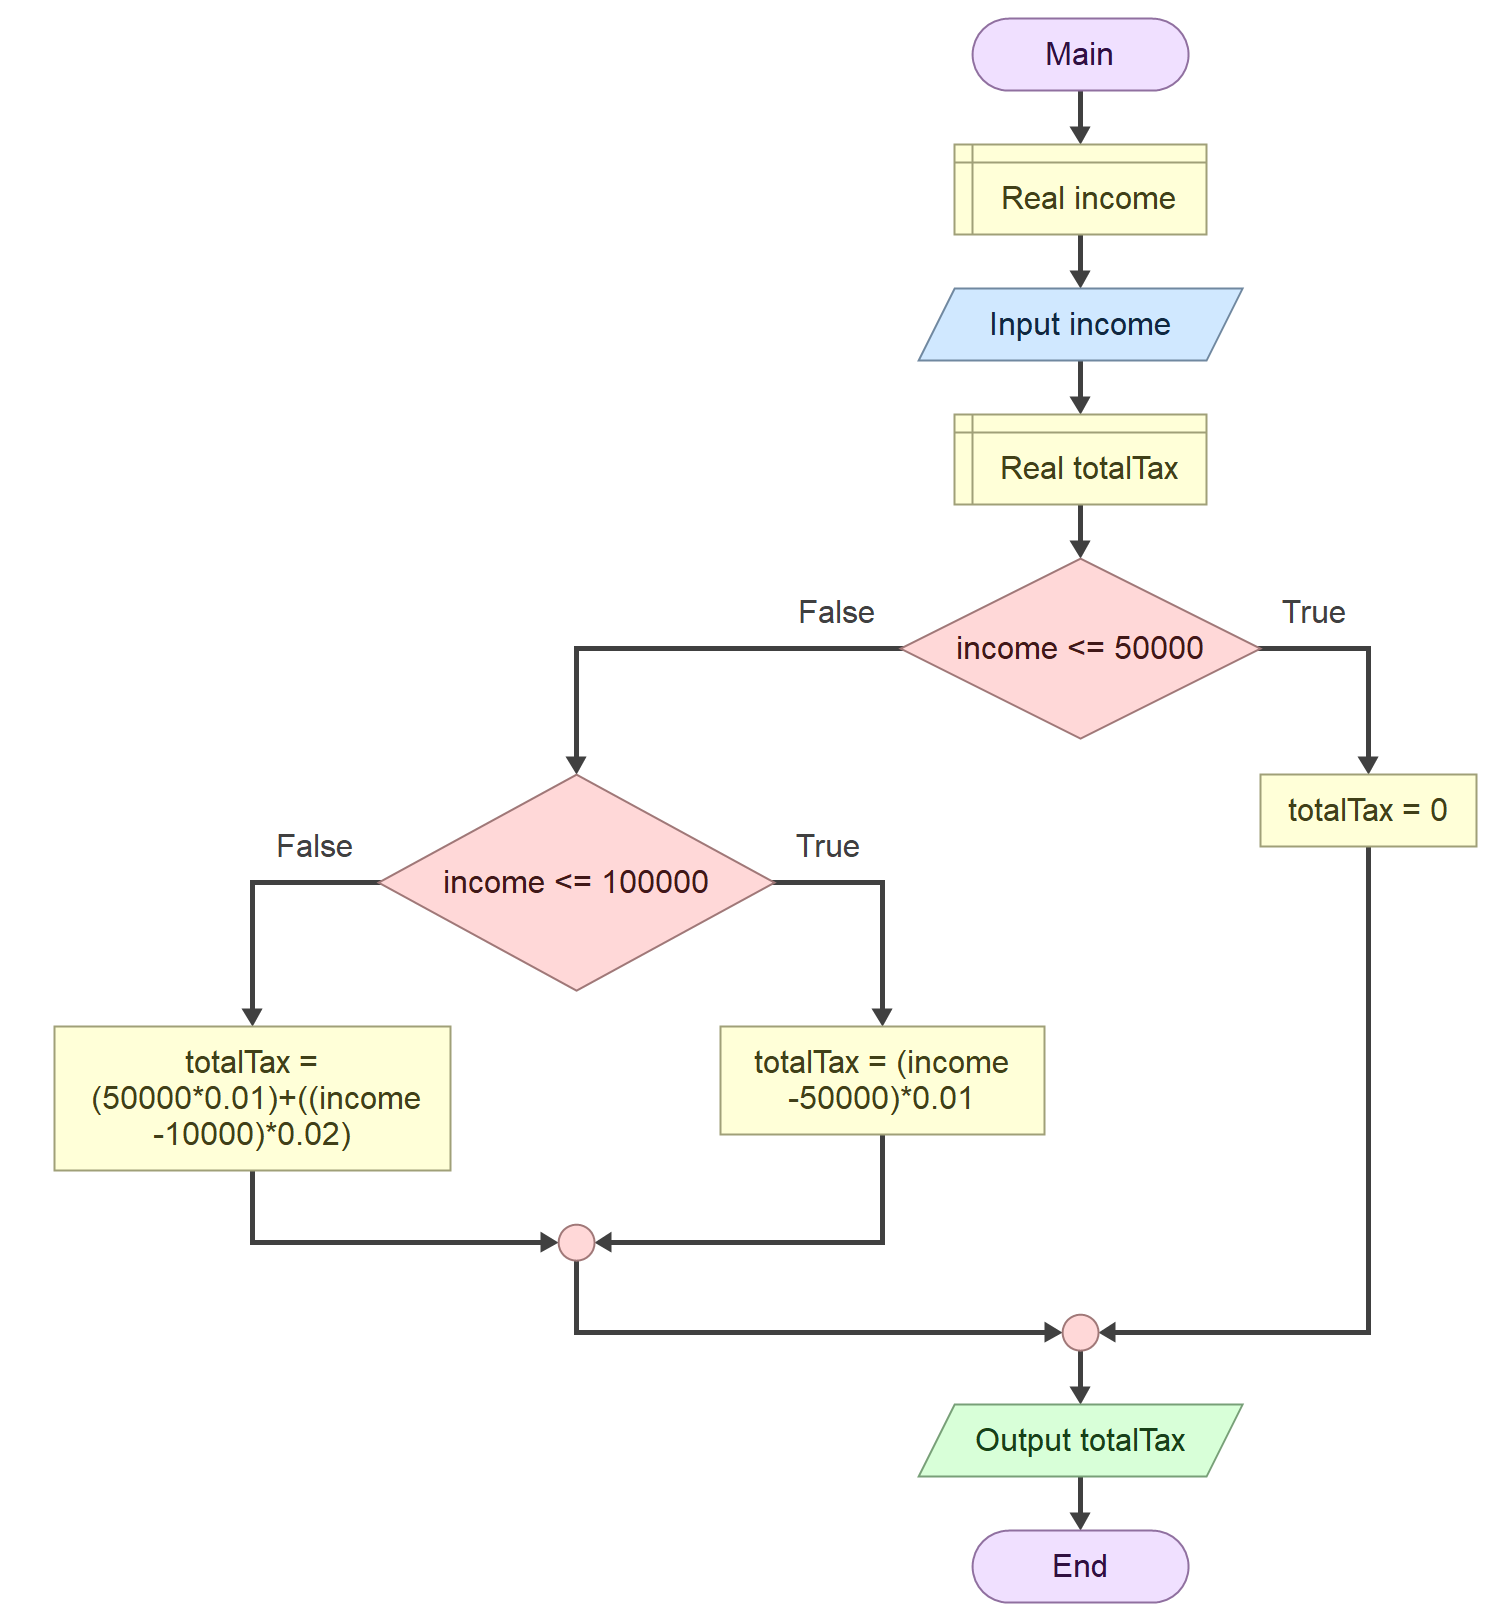
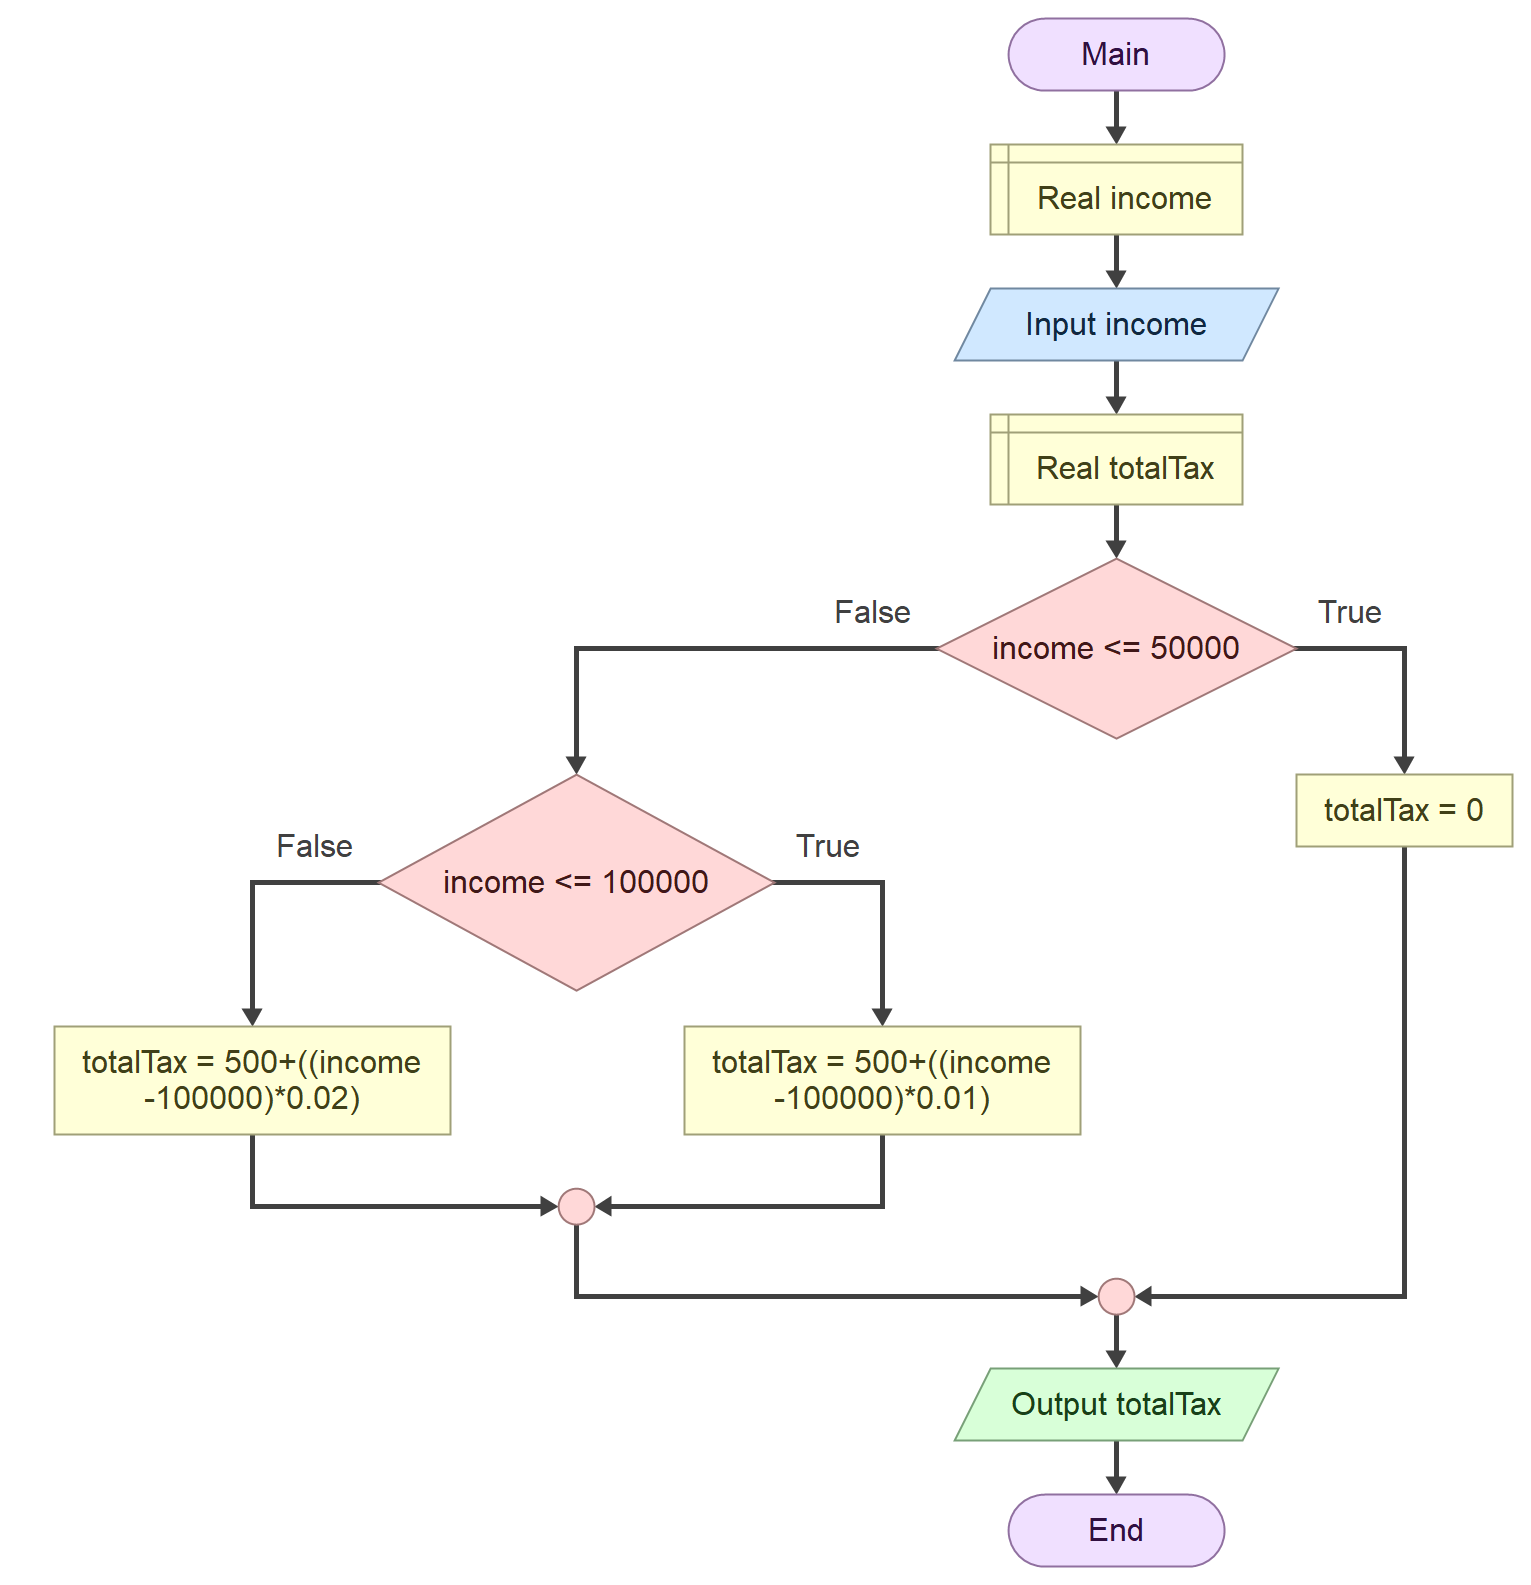
Change

Changed region(s): [[0.0308, 0.0, 1.0, 0.9893]]

diff --git a/labs/lab04/exercise2/lab-4-2.py b/labs/lab04/exercise2/lab-4-2.py
@@ -3,7 +3,7 @@ if income <= 50000:
     totalTax = 0
 else:
     if income <= 100000:
-        totalTax = (income - 50000) * 0.01
+        totalTax = 500 + income - 100000 * 0.01
     else:
-        totalTax = (50000 * 0.01) + ((income - 10000) * 0.02)
+        totalTax = 500 + income - 100000 * 0.02
 print(totalTax)
